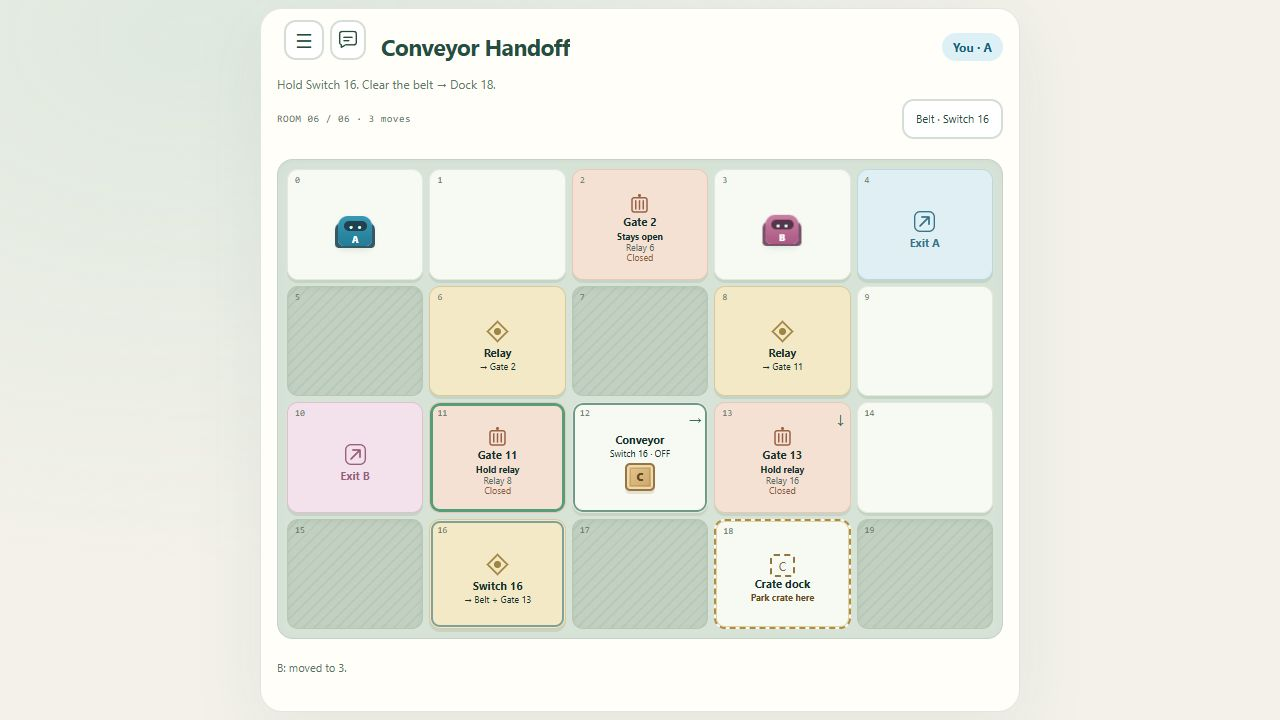
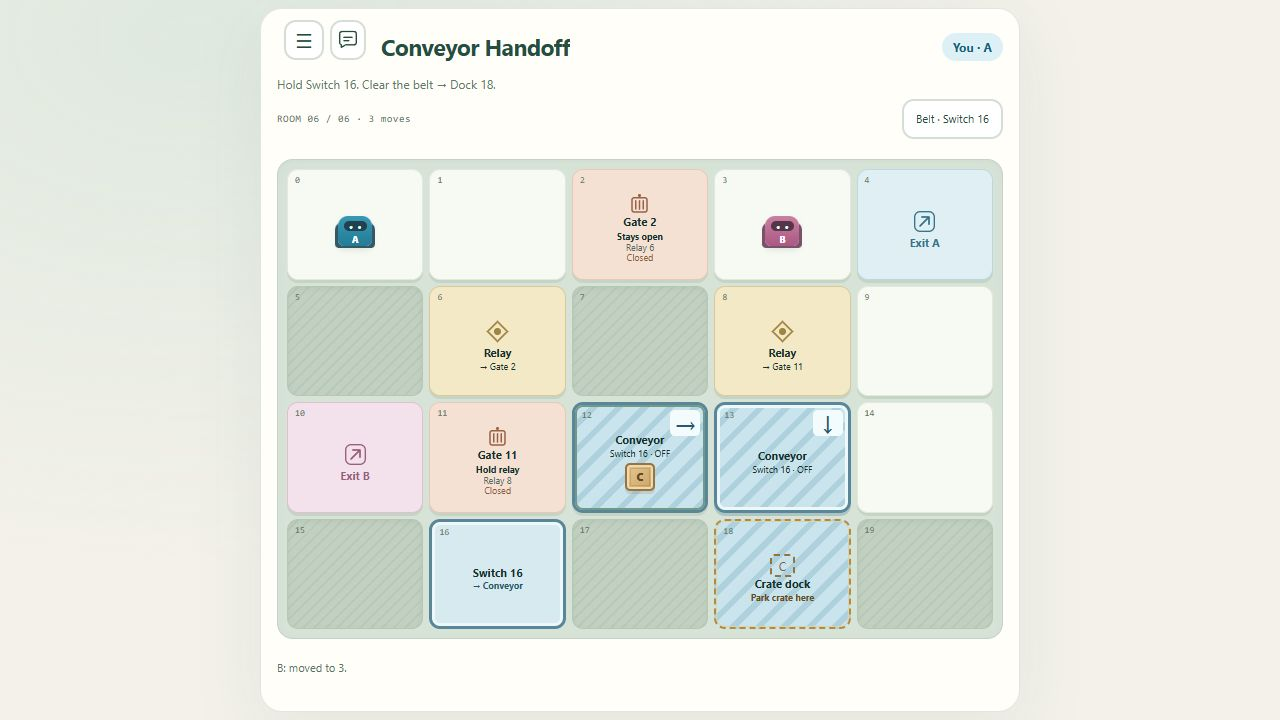
Clarify conveyor switch and prevent cargo softlocks

Changed region(s): [[0.3125, 0.55, 0.6875, 0.8861], [0.5938, 0.3056, 0.625, 0.3667]]

diff --git a/game/src/client/main.ts b/game/src/client/main.ts
@@ -78,7 +78,7 @@ function renderLevels() {
 type Lesson = 'movement' | 'push' | 'pull' | 'conveyor';
 let tutorialKind: Lesson = 'movement';
 const seenLessons = new Set<string>(), offeredLessons = new Set<string>();
-const lessonKey = (kind: string) => `foundry.lesson.${kind === 'movement' ? 'v1' : 'v3'}.${kind}`;
+const lessonKey = (kind: string) => `foundry.lesson.${kind === 'movement' ? 'v1' : kind === 'conveyor' ? 'v4' : 'v3'}.${kind}`;
 try { for (const kind of ['movement','push','pull','conveyor']) if (localStorage.getItem(lessonKey(kind)) === 'seen') seenLessons.add(kind); } catch { /* Session-only fallback. */ }
 function learn(kind: Lesson) {
   seenLessons.add(kind);
@@ -93,7 +93,7 @@ function coach(text: string) {
 function showLesson(kind: Lesson) {
   tutorialKind = kind; offeredLessons.add(kind);
   el('tutorial-title').textContent = kind === 'conveyor' ? 'Hold the switch. Clear the belt.' : kind === 'push' ? 'Push the crate' : kind === 'pull' ? 'Pull the crate' : 'Move together';
-  el('tutorial-text').textContent = kind === 'conveyor' ? 'One robot holds Switch 16; the other clears the arrow route 12 → 13 → Dock 18. The belt carries the crate automatically when you move. It waits safely behind robots or closed gates. On the belt, use the switch instead of Push or Pull. Both robots must still reach their exits.' : kind === 'push' ? 'Walk into the crate to push it one tile. The space behind it must be clear.'
+  el('tutorial-text').textContent = kind === 'conveyor' ? 'Switch 16 runs the blue conveyor; it does not open a gate. Hold the switch to carry the crate along 12 → 13 → Dock 18. Tile 13 is the belt corner. Keep the route clear: the crate waits safely if a robot is in the way. You do not need to push it. Then reach both robot exits.' : kind === 'push' ? 'Walk into the crate to push it one tile. The space behind it must be clear.'
     : kind === 'pull' ? 'Pull moves straight away from the crate. With the crate on your left, pull RIGHT; UP and DOWN will not work. Turn Pull OFF with F or the button to walk freely.'
     : 'Use arrow keys / WASD, or tap a tile next to your robot to move. Tap a distant tile to point it out. Stand on relays to power your partner’s gates. Staying still is waiting.';
   el('tutorial-demo').hidden = kind === 'movement' || kind === 'conveyor';
@@ -113,8 +113,8 @@ function showLesson(kind: Lesson) {
 }
 function togglePull() {
   const board=context?.view?.mission?.foundry;
-  if(board?.crate && board.conveyor?.path.slice(0,-1).includes(board.crate.cell)) {
-    coach(`The belt carries this crate. Hold Switch ${board.conveyor.relay} and clear the arrow route. Push/Pull is available at the end.`);render();return;
+  if(board?.crate && board.conveyor) {
+    coach(board.crate.cell===board.crate.target?'Cargo delivered. The dock holds the crate. Reach both robot exits.':`The belt carries this crate. Hold Switch ${board.conveyor.relay} and clear the arrow route. No pushing needed.`);render();return;
   }
   pullMode = !pullMode;
   if (pullMode && !seenLessons.has('pull') && !offeredLessons.has('pull')) showLesson('pull');
@@ -162,9 +162,9 @@ function compactLayout(enabled: boolean, m?: MissionView) {
   el('mode-indicator').textContent = pullMode ? `Pull ON ${pull?.arrow ?? ''} · F` : 'Pull OFF · F';
   el('mode-indicator').title = pullMode ? pull ? `Pull ${pull.name}, straight away from the crate. Turn OFF to walk in other directions.` : 'Stand next to the crate. Turn Pull OFF to walk freely.' : 'Turn Pull ON to drag a crate. F switches modes.';
   el('mode-indicator').setAttribute('aria-pressed',String(pullMode));
-  if(m?.foundry?.conveyor?.path.slice(0,-1).includes(m.foundry.crate!.cell)) {
-    el('mode-indicator').textContent=`Belt · Switch ${m.foundry.conveyor.relay}`;
-    el('mode-indicator').title='Hold the switch and clear the arrow route. Push/Pull is available at the belt end.';
+  if(m?.foundry?.conveyor) {
+    el('mode-indicator').textContent=m.foundry.crate!.cell===m.foundry.crate!.target?'✓ Cargo delivered':`Belt · Switch ${m.foundry.conveyor.relay}`;
+    el('mode-indicator').title='Hold the switch and clear the arrow route. The delivery dock locks the crate in place.';
   }
   el<HTMLButtonElement>('mode-indicator').disabled = !context?.view || context.view.room.phase !== 'planning' || socket?.readyState!==WebSocket.OPEN || stopped || !!pending || exitRequested;
   el('crate-coach').hidden = !m?.foundry?.crate || !!m.result || performance.now() >= crateTipUntil || !crateTip;
@@ -494,7 +494,7 @@ function showFoundryLink(m: MissionView, cell: number) {
     : `Gate ${link.cell} · ${link.powered ? 'Powered' : 'Closed'}. Stand on Relay ${link.relay}; entering locks it open.`
     : m.foundry!.gates.map(g => `Relay ${g.relay} → ${g.kind === 'pressure' ? 'Hold-open' : 'Latching'} Gate ${g.cell}`).join(' · ');
   const belt=m.foundry!.conveyor;
-  if(belt && (belt.path.includes(cell)||belt.relay===cell||cell===-1))el('foundry-link').textContent+=` · Belt ${belt.path.join(' → ')}: hold Switch ${belt.relay}, clear the route. Push/Pull only at the end.`;
+  if(belt && (belt.path.includes(cell)||belt.relay===cell||cell===-1))el('foundry-link').textContent+=` · Blue conveyor ${belt.path.join(' → ')}: hold Switch ${belt.relay} and clear the route. The dock locks delivered cargo.`;
   for (let index = 0; index < foundryTiles.length; index++) foundryTiles[index]!.classList.toggle('linked', !!link && (index === link.cell || index === link.relay));
 }
 function destination(direction: typeof moves[number], from: number, m: MissionView): number | null {
@@ -513,6 +513,7 @@ function renderFoundry(m: MissionView, role: Role, planning: boolean) {
   const cue=transitionSound(previous,m); if(cue) audio.play(cue);
   if (!previous) motionUntil.clear();
   if (previous?.foundry?.crate && board.crate && previous.foundry.crate.cell !== board.crate.cell) motionUntil.set('crate', performance.now() + 260);
+  if(board.conveyor && previous?.foundry?.crate?.cell!==board.crate?.cell && previous)motionUntil.set('belt',performance.now()+900);
   for (const r of ['A', 'B'] as const) if (previous && previous.positions[r] !== m.positions[r]) motionUntil.set(`robot-${r}`, performance.now() + 260);
   for (const g of board.gates) if (previous && previous.foundry!.gates.find(old => old.cell === g.cell)?.open !== g.open) motionUntil.set(`gate-${g.cell}`, performance.now() + 400);
   if (previous && previous.planningRevision !== m.planningRevision && previous.turnsResolved === m.turnsResolved && m.explanations.some(t => /closed|overlap|block|cannot|Pull needs/.test(t))) motionUntil.set('blocked', performance.now() + 300);
@@ -535,7 +536,7 @@ function renderFoundry(m: MissionView, role: Role, planning: boolean) {
     const belt=board.conveyor, beltIndex=belt?.path.indexOf(cell)??-1, beltSwitch=belt?.relay===cell;
     const beltNext=beltIndex>=0?belt?.path[beltIndex+1]:undefined;
     const beltArrow=beltNext===undefined?'END':beltNext===cell+1?'→':beltNext===cell-1?'←':beltNext===cell+board.width?'↓':'↑';
-    const label = wall ? 'Wall' : gate ? `${gate.kind === 'pressure' ? 'Hold-open' : 'Latching'} Gate ${cell}` : relay ? `Relay ${cell}` : exit ? `Exit ${exit}` : 'Floor';
+    const label = wall ? 'Wall' : gate ? `${gate.kind === 'pressure' ? 'Hold-open' : 'Latching'} Gate ${cell}` : beltSwitch ? `Conveyor Switch ${cell}` : beltIndex>=0 ? 'Conveyor' : relay ? `Relay ${cell}` : exit ? `Exit ${exit}` : 'Floor';
     const state = gate ? exitOnly ? 'Exit only; the robot inside can leave' : gate.latched ? 'Latched open' : gate.powered ? 'Powered' : 'Closed' : relay ? `→ Gate ${relay.cell}` : '';
     tile.className = `factory-tile${wall ? ' wall' : gate ? gate.open ? ' gate-open' : ' gate-closed' : relay ? ' relay' : exit ? ' exit' : ''}${link && (cell === link.cell || cell === link.relay) ? ' linked' : ''}`;
     tile.classList.toggle('has-robot', !!robot);
@@ -550,6 +551,7 @@ function renderFoundry(m: MissionView, role: Role, planning: boolean) {
     tile.classList.toggle('conveyor-tile',beltIndex>=0);
     tile.classList.toggle('conveyor-powered',beltIndex>=0 && !!belt?.powered);
     tile.classList.toggle('conveyor-switch',beltSwitch);
+    if(beltIndex>=0 && (motionUntil.get('belt')??0)>performance.now())tile.classList.add('belt-transfer');
     if ((motionUntil.get(`gate-${cell}`) ?? 0) > performance.now()) tile.classList.add('power-flash');
     if (cell === m.positions[role] && (motionUntil.get('blocked') ?? 0) > performance.now()) tile.classList.add('blocked-flash');
     tile.disabled = wall || !planning || (board.movement !== 'independent' && !!m.signals[role]);
@@ -595,7 +597,7 @@ function renderFoundry(m: MissionView, role: Role, planning: boolean) {
       const rule = document.createElement('span'); rule.className = 'tile-rule'; rule.textContent = gate.kind === 'pressure' ? 'Hold relay' : 'Stays open'; tile.append(rule);
       const source = document.createElement('span'); source.className = 'tile-source'; source.textContent = `Relay ${gate.relay}`; tile.append(source);
     }
-    const description = document.createElement('span'); description.className = 'tile-state'; description.textContent = gate ? exitOnly ? 'Exit only' : gate.latched ? 'Locked open' : gate.powered ? 'Powered' : 'Closed' : beltSwitch ? '→ Belt + Gate 13' : beltIndex>=0&&!crateTarget ? `Switch ${belt!.relay} · ${belt!.powered?'ON':'OFF'}` : relay ? `→ Gate ${relay.cell}` : ''; tile.append(description);
+    const description = document.createElement('span'); description.className = 'tile-state'; description.textContent = gate ? exitOnly ? 'Exit only' : gate.latched ? 'Locked open' : gate.powered ? 'Powered' : 'Closed' : beltSwitch ? '→ Conveyor' : beltIndex>=0&&!crateTarget ? `Switch ${belt!.relay} · ${belt!.powered?'ON':'OFF'}` : relay ? `→ Gate ${relay.cell}` : ''; tile.append(description);
     if (robot) {
       const bot = document.createElement('span'); bot.className = `robot robot-${robot}`; bot.textContent = robot;
       bot.setAttribute('aria-hidden', 'true'); tile.append(bot);
@@ -648,10 +650,11 @@ function renderMission() {
   if (foundry) renderFoundry(m, role, planning);
   el('cargo-controls').hidden = !m.foundry?.crate;
   el<HTMLButtonElement>('pull-mode').disabled = !planning;
+  el('pull-mode').hidden=!!m.foundry?.conveyor;
   el('pull-mode').setAttribute('aria-pressed',String(pullMode));
   el('pull-mode').textContent = pullMode?'Pull mode · step away':'Move / Push · switch to Pull';
   el('cargo-help').textContent = m.foundry?.crate ? `Walk into C to push. Pull: step away with C behind you. ${m.foundry.crate.cell===m.foundry.crate.target?'✓':'○'} Crate on ${crateTargetLabel} · ${m.positions.A===m.exits.A?'✓':'○'} A exit · ${m.positions.B===m.exits.B?'✓':'○'} B exit` : '';
-  if(m.foundry?.conveyor)el('cargo-help').textContent=`Hold Switch ${m.foundry.conveyor.relay} to run the arrow route. Clear robots and power gates. Push/Pull only at the belt end. ${m.foundry.crate!.cell===m.foundry.crate!.target?'✓':'○'} Crate dock · ${m.positions.A===m.exits.A?'✓':'○'} A exit · ${m.positions.B===m.exits.B?'✓':'○'} B exit`;
+  if(m.foundry?.conveyor)el('cargo-help').textContent=`Switch ${m.foundry.conveyor.relay} runs the blue conveyor. Tile 13 is its corner. Hold the switch and clear robots from the route; no pushing needed. ${m.foundry.crate!.cell===m.foundry.crate!.target?'✓':'○'} Crate dock · ${m.positions.A===m.exits.A?'✓':'○'} A exit · ${m.positions.B===m.exits.B?'✓':'○'} B exit`;
   el('own-label').textContent = `Your route · ${role}`;
   el('partner-label').textContent = `Partner's dangers · ${partner} only`;
   for (let cell = 0; !foundry && cell < 9; cell++) {

diff --git a/game/tests/conveyor.test.ts b/game/tests/conveyor.test.ts
@@ -10,6 +10,7 @@ test('conveyor witness requires both roles, switch activation and joint exit',()
   for(const [r,c,k] of conveyorRoute) {m=moveFoundry(m,r,c,k);assert.equal(m.positions[r],c);}
   assert.equal(m.result,'success');assert.equal(m.crate,18);assert.equal(m.turnsResolved,20);
   assert.equal(project(m,'A').ruleVersion,'SF-M4-v1');
+  assert.equal(project(m,'A').foundry!.gates.some(g=>g.cell===13||g.relay===16),false);
   for(const role of ['A','B'] as const) {
     let held=fresh();for(const [r,c,k] of conveyorRoute)if(r===role)try{held=moveFoundry(held,r,c,k);}catch{/* Other robot must participate. */}
     assert.notEqual(held.result,'success');assert.equal(held.crate,12);
@@ -20,24 +21,28 @@ test('belt pauses before an occupied tile, then resumes when the receiver clears
   m=moveFoundry(m,'A',16);assert.equal(m.crate,12);assert.match(m.explanations.join(' '),/clear Tile 13/);
   m=moveFoundry(m,'B',14);assert.equal(m.crate,18);assert.deepEqual(m.positions,{A:16,B:14});
   assert.match(m.explanations.join(' '),/Conveyor carried.*12 to 18/);
+  let bay=fresh();bay.positions={A:11,B:18};bay=moveFoundry(bay,'A',16);
+  assert.equal(bay.crate,12);assert.match(bay.explanations.join(' '),/clear Tile 18/);
+  bay=moveFoundry(bay,'B',13);assert.equal(bay.crate,12);
+  bay=moveFoundry(bay,'B',8);assert.equal(bay.crate,18);assert.equal(bay.positions.B,8);
 });
 test('belt pauses at a closed gate and never runs on idle or failed moves',()=>{
-  const custom=structuredClone(conveyorHandoff);custom.factory!.gates[2]!.relay=8;
+  const custom=structuredClone(conveyorHandoff);custom.factory!.gates=[...custom.factory!.gates,{cell:13,relay:8,kind:'pressure'}];
   let m=newMission('different-power',custom);m.positions={A:11,B:14};
   m=moveFoundry(m,'A',16);assert.equal(m.crate,12);assert.match(m.explanations.join(' '),/power Relay 8/);
   const idle=moveFoundry(m,'A',16);assert.equal(idle,m);
   const failed=moveFoundry(m,'B',13);assert.equal(failed.crate,12);assert.equal(failed.turnsResolved,m.turnsResolved);
   m=moveFoundry(m,'B',9);m=moveFoundry(m,'B',8);assert.equal(m.crate,18);
 });
-test('manual intermediate handling is rejected; end handling and switch-off remain recoverable',()=>{
+test('the conveyor handles intermediate cargo and the delivery dock prevents removal',()=>{
   let m=fresh();m.positions={A:11,B:8};
   const push=moveFoundry(m,'A',12);assert.equal(push.crate,12);assert.equal(push.positions.A,11);assert.match(push.explanations[0]!,/belt carries/);
   m.positions={A:13,B:16};m.crate=18;
-  m=moveFoundry(m,'A',8,'pull');assert.equal(m.crate,18); // Returns immediately while B holds the switch.
-  const custom=structuredClone(conveyorHandoff);custom.factory!.conveyor!.relay=6;
-  m=newMission('end-recovery',custom);m.positions={A:13,B:16};m.crate=18;
-  m=moveFoundry(m,'A',8,'pull');assert.equal(m.crate,13);assert.equal(project(m,'A').foundry!.conveyor!.powered,false);
-  m=moveFoundry(m,'B',11);m=moveFoundry(m,'B',6);assert.equal(m.crate,18);
+  m=moveFoundry(m,'A',8,'pull');assert.equal(m.crate,18);assert.equal(m.positions.A,13);assert.match(m.explanations[0]!,/dock locks/);
+  m=moveFoundry(m,'A',8);m=moveFoundry(m,'B',11);assert.equal(project(m,'A').foundry!.conveyor!.powered,false);
+  m=moveFoundry(m,'A',13);
+  m=moveFoundry(m,'A',18);assert.equal(m.crate,18);assert.equal(m.positions.A,13);
+  m=moveFoundry(m,'A',8);assert.equal(m.positions.A,8);assert.equal(m.crate,18);
 });
 test('authored conveyor paths reject walls, repeated cells, row wraps and self-power',()=>{
   for(const path of [[12,14],[12,13,12],[12,17],[9,10]]) {

diff --git a/game/src/rules/joint-exit.ts b/game/src/rules/joint-exit.ts
@@ -110,8 +110,10 @@ function moveCargo(m: Mission, role: Role, destination: number, kind: 'move' | '
   };
   const blocked=(reason:string)=>{next.explanations=[`${role}: ${reason}`];revision(next);return next;};
   if(destination===from)return kind==='move'?m:blocked('Pull needs a step away from the crate.');
+  if(f.conveyor && crate===f.crate!.target && (kind==='pull'||destination===crate))
+    return blocked('Cargo delivered. The dock locks the crate in place. Reach both robot exits.');
   if((kind==='pull' || destination===crate) && f.conveyor?.path.slice(0,-1).includes(crate))
-    return blocked(`The belt carries this crate. Stand on Switch ${f.conveyor.relay} and clear its route. Push or pull from the belt end.`);
+    return blocked(`The belt carries this crate. Stand on Switch ${f.conveyor.relay} and clear its route. No pushing needed.`);
   let cargo=crate;
   if(kind==='pull') {
     if(2*from-destination!==crate || !adjacent(from,crate))return blocked('Pull needs the crate directly behind you.');
@@ -143,15 +145,20 @@ function carryConveyor(m: Mission) {
   const f=factory(m), belt=f.conveyor;
   if(!belt || !roles.some(r=>m.positions[r]===belt.relay) || m.crate===null)return;
   const start=m.crate;
-  let index=belt.path.indexOf(start);
+  const index=belt.path.indexOf(start);
   if(index<0)return;
-  while(index<belt.path.length-1) {
-    const cell=belt.path[index+1]!, gate=f.gates.find(g=>g.cell===cell);
-    if(roles.some(r=>m.positions[r]===cell)) {m.explanations.push(`Belt waiting: clear Tile ${cell}. Switch ${belt.relay} is held.`);break;}
+  const route=belt.path.slice(index+1);
+  // Wait for the whole route so cargo cannot trap a robot in a one-exit receiving bay.
+  for(const cell of route) {
+    const gate=f.gates.find(g=>g.cell===cell);
+    if(roles.some(r=>m.positions[r]===cell)) {m.explanations.push(`Belt waiting: clear Tile ${cell}. Switch ${belt.relay} is held.`);return;}
     if(gate && !(gate.kind==='latching'&&m.latchedGates.includes(cell)) && m.crate!==gate.relay && !roles.some(r=>m.positions[r]===gate.relay)) {
-      m.explanations.push(`Belt waiting: power Relay ${gate.relay} for Gate ${cell}.`);break;
+      m.explanations.push(`Belt waiting: power Relay ${gate.relay} for Gate ${cell}.`);return;
     }
-    m.crate=cell;index++;
+  }
+  for(const cell of route) {
+    const gate=f.gates.find(g=>g.cell===cell);
+    m.crate=cell;
     if(gate?.kind==='latching'&&!m.latchedGates.includes(cell))m.latchedGates.push(cell);
   }
   if(m.crate!==start)m.explanations.push(`Conveyor carried the crate from ${start} to ${m.crate}.`);

diff --git a/game/public/styles.css b/game/public/styles.css
@@ -460,7 +460,12 @@ dialog h2 { font-size: 22px; } dialog p, dialog li { font-size: 13px; }
 #game-menu #menu-shortcuts { margin: 0 0 12px; font-size: 12px; }
 #game-menu #cargo-controls { margin: 0; padding: 10px; }
 #game-menu #cargo-help { font-size: 11px; }
-.factory-tile.conveyor-tile { background-image: repeating-linear-gradient(135deg,transparent 0 10px,#6a939015 10px 15px); border-style: dashed; }
-.factory-tile.conveyor-powered { border-color: #438d7c; }
-.belt-arrow { position: absolute; top: 4px; right: 5px; color: #346d65; font-size: 17px; font-weight: 800; pointer-events: none; }
-.conveyor-switch { outline: 2px solid #7ca29b; outline-offset: -4px; }
+.foundry-playing .factory-tile.conveyor-tile { background: repeating-linear-gradient(135deg,#c9e4ec 0 12px,#afd1dd 12px 18px); border: 3px solid #598799; box-shadow: inset 0 0 0 3px #edf8fb,0 3px 0 #59879955; }
+.foundry-playing .factory-tile.conveyor-powered { border-color: #2c887d; background: repeating-linear-gradient(135deg,#c5eadd 0 12px,#a2d4c5 12px 18px); }
+.belt-arrow { position: absolute; top: 5px; right: 5px; width: 30px; height: 26px; display: grid; place-items: center; border-radius: 5px; background: #f4fbfd; color: #27596d; font-size: 27px; line-height: 1; font-weight: 800; pointer-events: none; }
+.foundry-playing .factory-tile.conveyor-switch { background: #d7eaf0; border: 3px solid #598799; box-shadow: inset 0 0 0 3px #edf8fb; }
+.conveyor-switch .tile-state { color: #27596d; font-weight: 700; }
+.belt-transfer { animation: belt-delivery .8s ease-out; }
+@keyframes belt-delivery { 0%,40% { filter: brightness(1.3); } 100% { filter: none; } }
+@media (max-height:600px) { .belt-arrow { width: 22px; height: 22px; top: 2px; right: 3px; font-size: 23px; } .single-screen .conveyor-tile .tile-name { margin-right: 28px; } }
+@media (prefers-reduced-motion:reduce) { .belt-transfer { animation: none; } }

diff --git a/game/src/content/missions.ts b/game/src/content/missions.ts
@@ -44,7 +44,7 @@ export const freightExchange: MissionDefinition = {
 };
 export const conveyorHandoff: MissionDefinition = {
   title: 'Conveyor Handoff', mode: 'foundry', independent: true, stage: 6, hazards: { A: [], B: [] },
-  factory: { ...handoffWorkshop.factory!, crate: { start: 12, target: 18 },
+  factory: { ...handoffWorkshop.factory!, gates: handoffWorkshop.factory!.gates.filter(g=>g.cell!==13), crate: { start: 12, target: 18 },
     conveyor: { path: [12,13,18], relay: 16 },
     hint: 'Hold Relay 8 to let your partner reach Switch 16. Stand on Switch 16 to carry the crate along 12 → 13 → Dock 18. Clear the route, then reach both exits.' }
 };

diff --git a/game/src/client/crate-help.ts b/game/src/client/crate-help.ts
@@ -4,6 +4,7 @@ import type { MissionView, Role } from '../contracts/lobby.js';
 export function crateAction(m: MissionView, role: Role, destination: number, pull: boolean): 'push' | 'pull' | null {
   const b = m.foundry, c = b?.crate;
   if (!b || !c || m.result) return null;
+  if(b.conveyor && c.cell===c.target)return null;
   if(b.conveyor?.path.slice(0,-1).includes(c.cell)) return null;
   const from = m.positions[role], partner = m.positions[role === 'A' ? 'B' : 'A'];
   const floor = (n: number) => n >= 0 && n < b.width * b.height && !b.walls.includes(n);

diff --git a/game/tests/conveyor-route.ts b/game/tests/conveyor-route.ts
@@ -1,5 +1,5 @@
 import type { Role } from '../src/contracts/lobby.js';
-// Shortest witness found by the production-engine spatial audit.
+// Valid 20-step regression witness; the simplified room also has an 18-step solution.
 export const conveyorRoute: [Role,number,'move'|'pull'][] = [
   ['A',1,'move'],['A',6,'move'],['B',9,'move'],['B',8,'move'],['B',3,'move'],['B',2,'move'],
   ['A',1,'move'],['A',0,'move'],['B',1,'move'],['B',6,'move'],['A',1,'move'],['A',2,'move'],

diff --git a/docs/conveyor-implementation.md b/docs/conveyor-implementation.md
@@ -2,18 +2,22 @@
 
 ## Delivered behavior
 
-Room six uses the existing compact map and controls. Belt arrows mark 12 → 13 → Dock 18; Switch 16 also powers Gate 13. One robot supplies relay support so the other can reach the switch. The crate travels to the furthest clear belt tile within a successful robot move, stops before occupied tiles or closed gates and resumes after a later accepted move clears the route.
+Room six uses the existing compact map and controls. Blue striped tracks and large arrows mark 12 → 13 → Dock 18. Switch 16 controls only the conveyor; Gate 13 was removed and Tile 13 is the belt corner. One robot supplies relay support so the other can reach the switch. Cargo travels within a successful robot move only when the entire route is clear. The dock locks delivered cargo against removal.
 
-Only robots power the switch. Intermediate belt cargo cannot be pushed or pulled manually; the mode control instead says `Belt · Switch 16` and pressing F explains the required action. The first-use lesson is remembered in the browser and can be reopened in Menu → Controls → Show tutorial. Dock markings, team signals, sound, consent-bound level selection, restart and the final replay/exit flow remain available.
+Only robots power the switch. This room needs no manual cargo handling; the mode control says `Belt · Switch 16`, then `✓ Cargo delivered`. F explains the required action, and the menu hides its Pull button in this room. The revised first-use lesson is remembered separately and can be reopened in Menu → Controls → Show tutorial. Other rooms retain their original gates and Push/Pull rules.
 
 ## Evidence
 
-- All 94 automated tests passed, including obstacle stops/resumption, separate gate power, idle/failed commands, end handling, invalid authored paths, exhaustive client action previews, six-room progression and three real two-seat WebSocket completion/replay cases.
-- `game/research/conveyor-audit.mjs` searched the compiled production engine: 318 reachable spatial states, 1,076 successful transitions, every state recoverable, shortest completion 20 moves, maximum shortest recovery 22 moves. The audit stops expansion at success and abstracts counters and command history; lifecycle and command correctness are tested separately. [Recorded report](conveyor-validation.json).
+- All 94 automated tests passed after clarification, including whole-route waiting, a receiver escaping Dock 18 before delivery, dock locking, separate gate power in a custom fixture, idle/failed commands, invalid authored paths, exhaustive client action previews, six-room progression and three real two-seat WebSocket completion/replay cases.
+- The final production-engine audit found 497 reachable spatial states, 1,876 successful transitions, every state recoverable, shortest completion 18 moves and maximum shortest recovery 18 moves. The audit stops expansion at success and abstracts counters and command history; lifecycle and command correctness are tested separately. [Recorded report](conveyor-validation.json).
 - Browser A with a scripted development partner selected room six, viewed and dismissed the new lesson, delivered the crate through switch activation, completed in 20 moves and used Leave room from the success screen. No console errors were captured.
 - At 390×844 and 844×390 the page had no overflow. The landscape inspection identified an overlapping END label, which was removed in favor of the existing dock marker. A subsequent build passed, and the final UI was checked again for belt-specific F guidance and the corrected dock.
 
 This is not independent two-human playtesting or an actual-phone test. The belt intentionally settles immediately instead of requiring timed movement. The next human check should ask whether both players understand the switch, arrow direction and safe waiting behavior without verbal coaching.
+
+## Clarification follow-up
+
+Player feedback identified the dual-purpose switch and faint belt as confusing. Removing Gate 13 first exposed unsafe cargo-removal states; locking the dock and waiting for the whole route eliminated all unrecoverable spatial states. The original 20-step witness remains valid. Revised screenshots show the blue track, dedicated switch and no Gate 13; browser checks verified the new lesson and narrow-layout visibility.
 
 [Desktop](conveyor-desktop.png) · [Phone viewport](conveyor-phone.png) · [Landscape viewport](conveyor-landscape.png).
 

diff --git a/README.md b/README.md
@@ -17,7 +17,7 @@ Create a room and share its six-character code. Your partner joins from another 
 - Completed rooms receive green marks, remembered in the current browser rather than a cloud account.
 - Use the speech-bubble button for Need power, Hold position, Got it and Mark a tile. Signals last six seconds; sending has a two-second cooldown and never freezes movement.
 - Quiet sound effects accompany moves, gates, crates, parking, completion and incoming teammate signals. Toggle **Sound ON/OFF** under **Menu → Controls**; your preference is saved in this browser. Sound begins after your first interaction.
-- In Conveyor Handoff, hold Switch 16 and clear the arrow route. The belt carries the crate to Dock 18 and waits safely behind robots or closed gates. Use the switch for intermediate belt tiles; Push/Pull is available at the end.
+- In Conveyor Handoff, Switch 16 runs the blue belt only. Tile 13 is its corner. Clear the entire arrow route to deliver the crate to Dock 18; the dock locks it in place, then both robots reach their exits.
 
 | Room | Cooperation challenge |
 | --- | --- |
@@ -71,7 +71,7 @@ Defaults: 20 rooms, 500 sessions, a 60-second disconnect recovery window and a t
 
 ## Verification
 
-The application passed **94 automated tests**, including HTTP/WebSocket flows, authorization, duplicate/stale commands, room isolation, team signals and cooldowns, restart, consent-bound levels, six-room progression, crate previews, conveyor safety, safe gate departure and sound event selection. Actual-engine searches found all reachable spatial states recoverable in all six rooms; Conveyor Handoff has 318 configurations and a shortest 20-step completion.
+The application passed **94 automated tests**, including HTTP/WebSocket flows, authorization, duplicate/stale commands, room isolation, team signals and cooldowns, restart, consent-bound levels, six-room progression, crate previews, conveyor safety, safe gate departure and sound event selection. Actual-engine searches found all reachable spatial states recoverable in all six rooms; Conveyor Handoff has 497 configurations and a shortest 18-step completion.
 
 Browser A with a developer scripted partner completed room four and checked F/Pull, parking, replay, green marks and exit. Responsive inspection covered 390x844 and 844x390 without page overflow. These checks do not establish independent two-human enjoyment, actual-phone behavior or public deployment readiness. [Fourth-room evidence](docs/handoff-workshop-implementation.md), [earlier test evidence](docs/test-evidence.md).
 

diff --git a/docs/conveyor-design.md b/docs/conveyor-design.md
@@ -8,9 +8,10 @@ Teach one new mechanism through the existing cooperative layout: B holds Relay 8
 
 - The belt follows the visible arrows on 12 → 13 → 18. Tile 18 is both the end and the crate dock.
 - A robot must hold Switch 16. The crate cannot power the belt itself.
-- Accepted robot moves settle the powered belt to its furthest clear tile in the same server transaction. There is no timer, reflex challenge or extra confirmation button.
-- Occupied tiles and closed gates stop the crate before entry. Clearing a robot or supplying power during a later accepted move resumes transport.
-- Crates on intermediate belt tiles use the belt instead of manual push/pull. Manual handling is available at the end; feedback explains this restriction.
+- Switch 16 controls only the blue conveyor. Tile 13 is its corner, not a gate. Blue striped track tiles and large arrow badges distinguish it from ordinary floor and gates.
+- Accepted robot moves transport cargo only when the entire remaining route is clear. There is no timer, reflex challenge or extra confirmation button.
+- Occupied route tiles stop delivery before it starts, including the receiving dock. This prevents trapping a receiver in the one-exit bay.
+- The belt handles intermediate cargo; Dock 18 locks delivered cargo against manual removal. This room requires no pushing or pulling. Feedback explains the switch and delivery state.
 - Failed moves, signals, duplicate commands and disconnected rooms do not advance the belt. No crate/robot overlap is permitted.
 - Completion requires Dock 18 and both robot exits. Restart and room selection retain existing mutual consent.
 

diff --git a/CHANGELOG.md b/CHANGELOG.md
@@ -2,7 +2,7 @@
 
 ## Unreleased
 
-- Added Conveyor Handoff as room six: hold Switch 16, clear the arrow route and deliver the crate to Dock 18. First-use teaching, safe obstacle stops and simplified belt handling. All 94 tests pass; all 318 reachable spatial states are recoverable. [Design](docs/conveyor-design.md) and [verification](docs/conveyor-implementation.md).
+- Added Conveyor Handoff as room six: Switch 16 runs a distinct blue belt; Tile 13 is a corner, with no Gate 13. Delivery waits for the whole route to clear and the dock locks delivered cargo. All 94 tests pass; all 497 reachable spatial states are recoverable. [Design](docs/conveyor-design.md) and [verification](docs/conveyor-implementation.md).
 - Quiet synthesized sound effects with a persistent Sound ON/OFF control under Menu → Controls. Initial/duplicate snapshots and failed moves stay silent; no music or external audio assets. All 87 tests pass. [Verification](docs/audio-feedback.md).
 - Short speech bubbles above each sending robot, alongside existing detailed team messages; bubbles follow movement and expire with the signal.
 - Compact team signals: power requests, Hold position, Got it and explicit tile marking, with named markers, six-second expiry and a server-enforced two-second cooldown. [Behavior and verification](docs/team-signals.md).
